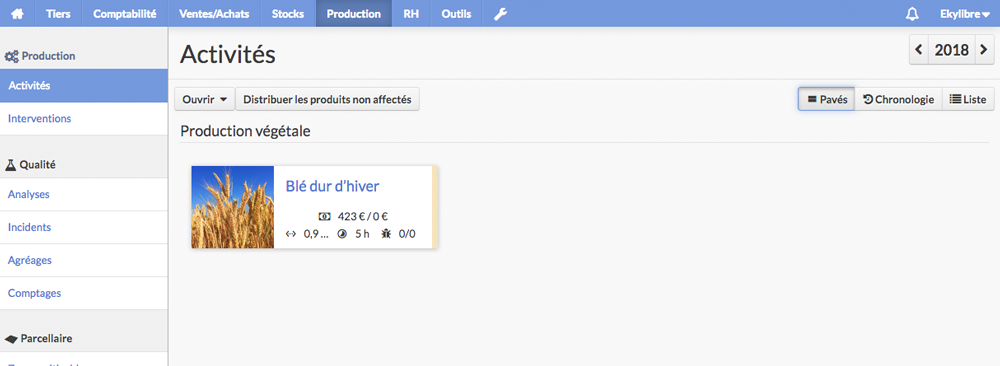
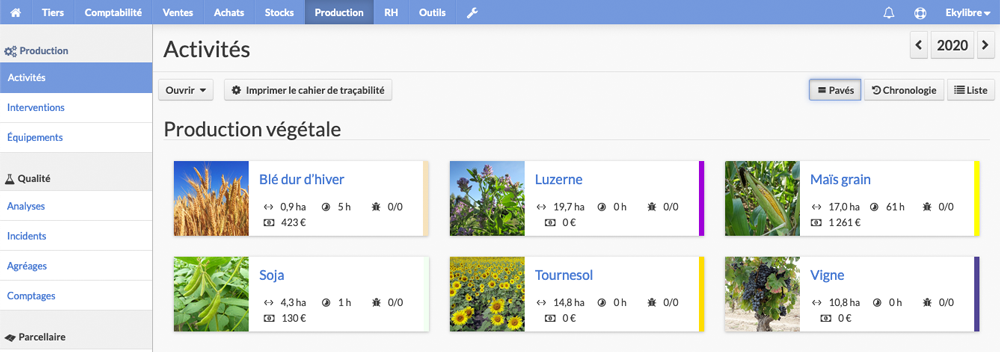
Màj indicateurs/activités

diff --git a/content/fr/chapitre9.html b/content/fr/chapitre9.html
@@ -1491,6 +1491,8 @@
       <h6>Guide de prise en main • Production • Planification d'interventions</h6>
       <a class="slice-process" id="planification"></a>
 	  <h2 class="texte aerateur">d - Planification d'interventions</h2>
+	  <h6>Guide de prise en main • Production • Planification d'interventions</h6>
+      <a class="slice-process" id="plan-interv"></a>
       <p align="center" class="texte aerateur procedure">1 – Procédure pour planifier une intervention</p>
       <p class="texte">Dans un environnement de production impliquant un nombre important de parcelles, de machines et de collaborateurs &#40;techniciens, ouvriers, etc.&#41;, la planification d'interventions permet de programmer les travaux sur la ferme et les cultures, d'anticiper les besoins en hommes, en équipements et en intrants. L'application permet également de visualiser facilement la concordance entre la planification d'une intervention et sa réalisation.</p>
       <p class="texte">Le processus suivant vous guide pour planifier une intervention.</p>
@@ -2298,7 +2300,7 @@
       </p>
       <p class="texte"><strong>Eky</strong>agri vous permet d'avoir une vision globale de l'ensemble des activités, par production et pour l'ensemble du cycle cultural.</p>
       <p class="texte">
-         Le processus suivant vous guide pour afficher les activités.
+         Le processus suivant vous guide pour interpréter les indicateurs de suivi des activités.
       </p>
       <div class="floating-box process">
          <img src="../images/commun/step1.svg" alt="1" width="52" />
@@ -2319,67 +2321,20 @@
          <img src="../images/commun/step2.svg" alt="2" width="52" />
       </div>
       <div class="process-txt">
-         <span class="titre-advice">Lisez les indicateurs</span>
-         <p>
-            Chaque activité affichée dans un pavé contient plusieurs indicateurs&nbsp;:
-         </p>
+         <span class="titre-advice">Consultez les indicateurs</span>
+         <p>Dans la vue "Pavés", chaque activité ouverte pour une campagne donnée est affichée avec plusieurs indicateurs&nbsp;:</p>
          <p align="center">
             <img src="../images/chapitre9/activite-detail.png" alt="Détail d'une activité" width="315">
          </p>
-         <!--
-            <div class="divTableListe">
-               <div class="divTableBody">
-                  <div class="divTableRow">
-                     <div class="divTableCellInter">
-                        <img src="../images/chapitre9/a-maj.svg" alt="B" height="40" width="40">
-                     </div>
-                     <div class="divTableCellInter">
-                        <p><img src="../images/chapitre9/code-setting.svg" alt="Surface" height="20" class="align-icone icone-marge-droite">affiche la surface totale en hectare cultivée pour cette activité.</p>
-                     </div>
-                  </div>
-                  <div class="divTableRow">
-                     <div class="divTableCellInter">
-                        <img src="../images/chapitre9/b-maj.svg" alt="C" height="40" width="40">
-                     </div>
-                     <div class="divTableCellInter">
-                        <p><img src="../images/chapitre9/time-interval.svg" alt="Temps de travail" height="20" class="align-icone icone-marge-droite">affiche le temps total des interventions pour cette activité.</p>
-                     </div>
-                  </div>
-                  <div class="divTableRow">
-                     <div class="divTableCellInter">
-                        <img src="../images/chapitre9/c-maj.svg" alt="D" height="40" width="40">
-                     </div>
-                     <div class="divTableCellInter">
-                        <p><img src="../images/chapitre9/bug.svg" alt="Incident" height="20" class="align-icone icone-marge-droite">affiche les incidents comptabilisés pour cette activité.</p>
-                     </div>
-                  </div>
-            <div class="divTableRow">
-                     <div class="divTableCellInter" style="width: 60px">
-                        <img src="../images/chapitre9/d-maj.svg" alt="A" height="40" width="40">
-                     </div>
-                     <div class="divTableCellInter" style="width: auto">
-                        <p><img src="../images/chapitre9/money.svg" alt="Dépenses/Recettes" height="20" class="align-icone icone-marge-droite">affiche les coûts/dépenses prévisionnelles &#40;si le budget a été créé&#41; pour cette activité.</p>
-                     </div>
-                  </div>
-            <div class="divTableRow">
-                     <div class="divTableCellInter">
-                        <img src="../images/chapitre9/e-maj.svg" alt="D" height="40" width="40">
-                     </div>
-                     <div class="divTableCellInter">
-                        <p><img src="../images/chapitre9/flask.svg" alt="Phyto-fertilisant" height="20" class="align-icone icone-marge-droite">affiche les traitements phytosanitaires et fertilisants pour cette activité.</p>
-                     </div>
-                  </div>
-               </div>
-            </div>
-            -->
+		 <p><strong>Production végétale</strong></p>
          <div class="divTableListe">
             <div class="divTableBody">
                <div class="divTableRow">
                   <div class="divTableCellInter" style="width: 60px">
                      <img src="../images/chapitre9/a-maj.svg" alt="A" height="40" width="40">
                   </div>
-                  <div class="divTableCellInter" style="width: auto">
-                     <p><img src="../images/chapitre9/money.svg" alt="Dépenses/Recettes" height="20" class="align-icone icone-marge-droite">affiche les coûts/dépenses prévisionnelles &#40;si le budget a été créé&#41; pour cette activité.</p>
+                  <div class="divTableCellInter">
+                     <p><img src="../images/chapitre9/code-setting.svg" alt="Surface" height="20" class="align-icone icone-marge-droite">affiche la surface totale en hectare des parcelles assolées avec cette activité.</p>
                   </div>
                </div>
                <div class="divTableRow">
@@ -2387,7 +2342,7 @@
                      <img src="../images/chapitre9/b-maj.svg" alt="B" height="40" width="40">
                   </div>
                   <div class="divTableCellInter">
-                     <p><img src="../images/chapitre9/code-setting.svg" alt="Surface" height="20" class="align-icone icone-marge-droite">affiche la surface totale en hectare cultivée pour cette activité.</p>
+                     <p><img src="../images/chapitre9/time-interval.svg" alt="Temps de travail" height="20" class="align-icone icone-marge-droite">affiche le total des temps de travaux enregistrés dans les différentes interventions<sup>1</sup>.</p>
                   </div>
                </div>
                <div class="divTableRow">
@@ -2395,15 +2350,39 @@
                      <img src="../images/chapitre9/c-maj.svg" alt="C" height="40" width="40">
                   </div>
                   <div class="divTableCellInter">
-                     <p><img src="../images/chapitre9/time-interval.svg" alt="Temps de travail" height="20" class="align-icone icone-marge-droite">affiche le temps total des interventions pour cette activité.</p>
+                     <p><img src="../images/chapitre9/bug.svg" alt="Incident" height="20" class="align-icone icone-marge-droite">affiche le nombre total des incidents consignés pour cette activité.</p>
                   </div>
                </div>
-               <div class="divTableRow">
+			   <div class="divTableRow">
                   <div class="divTableCellInter">
                      <img src="../images/chapitre9/d-maj.svg" alt="D" height="40" width="40">
                   </div>
+                  <div class="divTableCellInter" style="width: auto">
+                     <p><img src="../images/chapitre9/money.svg" alt="Dépenses/Recettes" height="20" class="align-icone icone-marge-droite">affiche le coût global de production estimatif et calculé pour cette activité<sup>2</sup>.</p>
+                  </div>
+               </div>
+			   <!--
+			   <div class="divTableRow">
                   <div class="divTableCellInter">
-                     <p><img src="../images/chapitre9/bug.svg" alt="Incident" height="20" class="align-icone icone-marge-droite">affiche les incidents comptabilisés pour cette activité.</p>
+                     <img src="../images/chapitre9/e-maj.svg" alt="D" height="40" width="40">
+                  </div>
+                  <div class="divTableCellInter">
+                     <p><img src="../images/chapitre9/flask.svg" alt="Phyto-fertilisant" height="20" class="align-icone icone-marge-droite">affiche les traitements phytosanitaires et fertilisants pour cette activité.</p>
+                  </div>
+               </div>
+			-->
+            </div>
+         </div>
+	  <p><em>1. Les temps de travaux sont automatiquement proratisés lorsqu'une intervention est enregistrée en ciblant des parcelles et/ou des cultures dont les activités sont différentes.</em><br /><em>2. Le coût global prend en compte les coûts des intrants, de main d'œuvre, des équipements et des prestations de services enregistrés dans les différents catalogues de prix.</em></p>
+	  <p class="aerateur-haut"><strong>Production animale</strong></p>
+         <div class="divTableListe">
+            <div class="divTableBody">
+			   <div class="divTableRow">
+                  <div class="divTableCellInter" style="width: 60px">
+					  <img src="../images/chapitre9/a-maj.svg" alt="A" height="40" width="40">
+                  </div>
+                  <div class="divTableCellInter" style="width: auto">
+                     <p><img src="../images/chapitre9/users.svg" alt="Décompte" height="20" class="align-icone icone-marge-droite">affiche le nombre de têtes ou d'animaux comptabilisés en stock.</p>
                   </div>
                </div>
             </div>
@@ -2415,14 +2394,12 @@
       </div>
       <div class="process-txt">
          <span class="titre-advice">Affichez la chronologie des interventions</span>
-         <p>
-            Cliquez sur le bouton "Chronologie" pour basculer vers l'affichage par ordre chronologique.
-         </p>
+         <p>Cliquez sur le bouton "Chronologie" pour afficher la frise permettant de visualiser, d'un seul coup d'œil et pour chaque activité, l'historique des interventions enregistrées durant la période de production.</p>
+		 <p>Les travaux successifs sont représentés par le symbole<img src="../images/chapitre9/check-circle.svg" alt="Main" height="20" class="align-icone icone-marge-gauche icone-marge-droite">dans la frise. Dans l'exemple suivant, on peut distinguer un labour, un hersage, un semis, deux fertilisations, une pulvérisation et une récolte&nbsp;:</p>
          <p class="max-img-process">
             <img src="../images/chapitre9/activites8.png" class="contour-img" alt="Liste des interventions" data-action="zoom" />
          </p>
-         <p>L'ensemble des productions est affiché par parcelle. Chaque symbole<img src="../images/chapitre9/check-circle.svg" alt="Main" height="20" class="align-icone icone-marge-gauche icone-marge-droite">indique la saisie d'une intervention sur la parcelle durant la période de production&nbsp;: un labour, un hersage, un semis, deux fertilisations, une pulvérisation et une récolte dans cet exemple.</p>
-		 <p>Cliquez sur le symbole<img src="../images/chapitre9/check-circle.svg" alt="Main" height="20" class="align-icone icone-marge-gauche icone-marge-droite">pour afficher la fiche détaillée de l'intervention correspondante.</p>
+		 <p>Cliquez sur l'icône<img src="../images/chapitre9/check-circle.svg" alt="Main" height="20" class="align-icone icone-marge-gauche icone-marge-droite">de votre choix pour afficher la fiche détaillée de l'intervention correspondante.</p>
       </div>
       <div class="pdf">
          <p align="right" class="texte aerateur-top aerateur-bas">Passez au <a class="avoid-clicks" href="../chapitre10">chapitre suivant</a> de ce guide.</p>

diff --git a/content/fr/demarrage.html b/content/fr/demarrage.html
@@ -16,7 +16,7 @@
       <h1 align="center" class="texte majuscule aerateur">Guide de prise en main</h1>
       <p align="center"><img src="../images/accueil/icone-doc.png" alt="Documentation Ekylibre" height="100px"></p>
       <p align="center"><img src="../images/accueil/logos-eky.png" alt="Logos Ekylibre" height="80px"></p>
-      <p class="texte">Ce guide a pour but d'aider le nouvel utilisateur à configurer rapidement et correctement les applications développées par Ekylibre &#40;sauf <a href="https://doc.clic.farm/" target="_blank" class="avoid-clicks"><strong>Clic</strong>&#38;Farm</a>&#41; pour son exploitation agricole et de commencer à les utiliser.<br />Cette documentation a été mise à jour le 19 mars 2021. La version au format PDF est datée du 19 mars 2021.</p>
+      <p class="texte">Ce guide a pour but d'aider le nouvel utilisateur à configurer rapidement et correctement les applications développées par Ekylibre &#40;sauf <a href="https://doc.clic.farm/" target="_blank" class="avoid-clicks"><strong>Clic</strong>&#38;Farm</a>&#41; pour son exploitation agricole et de commencer à les utiliser.<br />Cette documentation a été mise à jour le 22 mars 2021. La version au format PDF est datée du 19 mars 2021.</p>
       <div class="info-fond aerateur-haut aerateur-bas">
          <div class="floating-box-info">
             <img src="../images/commun/info.svg" width="100" alt="Info"/>
